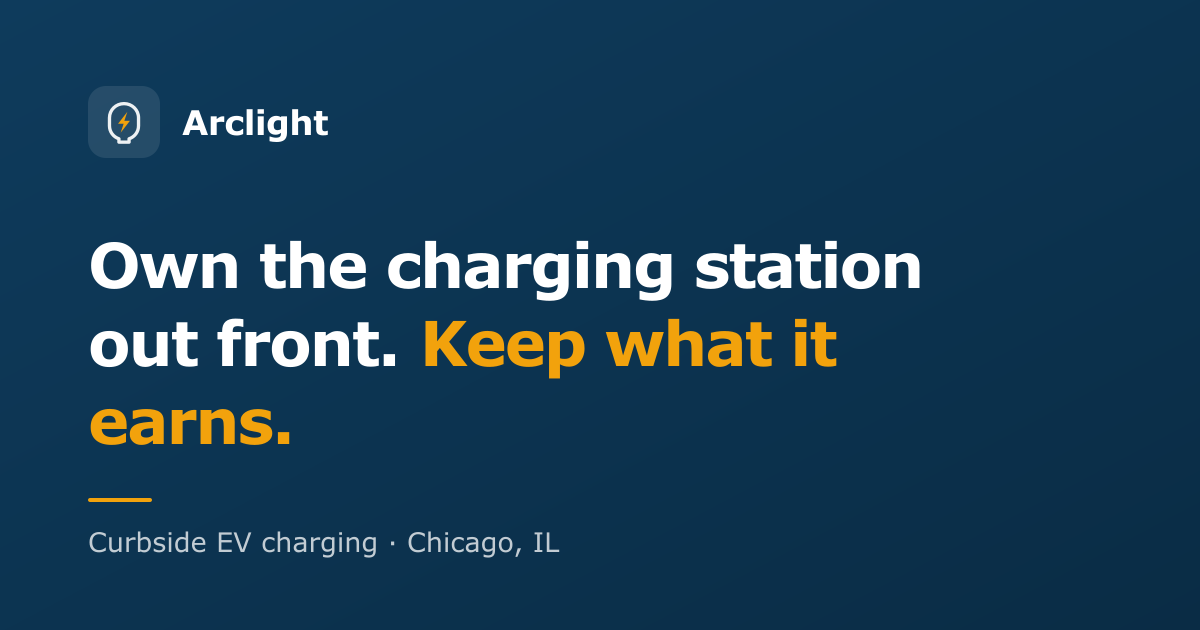
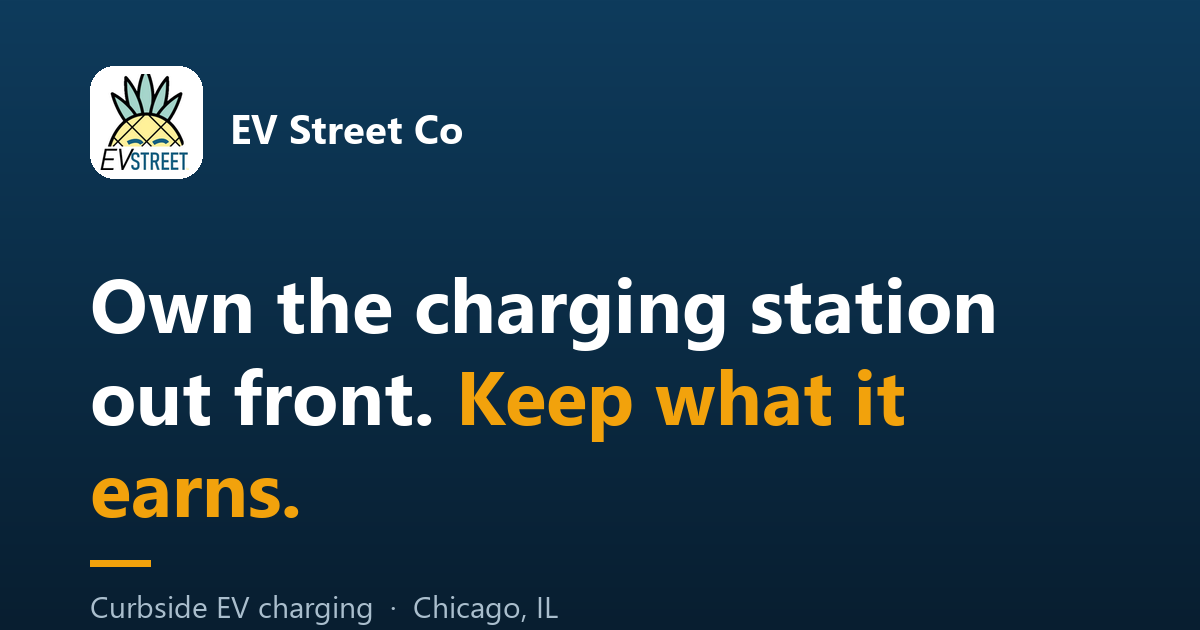
updatedtoEVstreet

Changed region(s): [[0.0617, 0.3619, 0.8325, 0.7238], [0.0, 0.7238, 0.7092, 1.0], [0.0617, 0.0905, 0.4008, 0.3016]]

diff --git a/src/brand.ts b/src/brand.ts
@@ -1,5 +1,5 @@
 /**
- * Arclight — single source of truth for every fact the site asserts.
+ * EV Street Co — single source of truth for every fact the site asserts.
  *
  * Anything still unresolved is `null` on purpose. `null` values render as a
  * visible amber TBD chip (see `src/components/Tbd.astro`) instead of silently
@@ -11,11 +11,13 @@
  */
 
 export const BRAND = {
-  name: 'Arclight',
+  name: 'EV Street Co',
+
+  /** OPEN — domain not yet registered for EV Street Co. Was arclightcurb.com under the old name. */
   domain: 'arclightcurb.com',
   city: 'Chicago, IL',
 
-  /** OPEN 9 — replace before launch. castillocontracting4@gmail.com is another company's Gmail. */
+  /** OPEN 9 — replace before launch. Needs an @ the new EV Street Co domain once it is registered. */
   email: 'hello@arclightcurb.com' as string | null,
 
   /** OPEN — $4k installs do not close on a form alone. */
@@ -45,7 +47,7 @@ export const FEE = {
 /**
  * Install pricing.
  *
- * `costTypical` is Arclight's cost. `priceLow`/`priceHigh` is the customer
+ * `costTypical` is EV Street Co's cost. `priceLow`/`priceHigh` is the customer
  * range at roughly 50% gross margin.
  *
  * OPEN 2 — the ABC book's own curbside line items (Level 2 Underground Circuit

diff --git a/src/navigation.ts b/src/navigation.ts
@@ -53,7 +53,7 @@ export const footerData = {
       : []),
   ],
   footNote: `
-    <span class="text-muted">&copy; ${new Date().getFullYear()} Arclight, Chicago IL. Electrical work performed under Illinois electrical contractor license ${
+    <span class="text-muted">&copy; ${new Date().getFullYear()} EV Street Co, Chicago IL. Electrical work performed under Illinois electrical contractor license ${
       BRAND.licenseNumber
         ? `#${BRAND.licenseNumber}`
         : `<span class="inline-flex items-center rounded-md border border-amber-500/60 bg-amber-50 px-1.5 py-0.5 text-[0.85em] font-semibold uppercase tracking-wide text-amber-800">TBD: license #</span>`

diff --git a/README.md b/README.md
@@ -1,6 +1,6 @@
-# Arclight
+# EV Street Co
 
-Marketing site for Arclight, curbside EV charging in Chicago. Property owners buy and own
+Marketing site for EV Street Co, curbside EV charging in Chicago. Property owners buy and own
 the charging station at their curb, set their own rate, and earn on every session.
 
 Built with [Astro](https://astro.build) 7 and Tailwind CSS 4, on the
@@ -56,6 +56,6 @@ the page says why.
 
 ## Custom domain
 
-To move this to arclightcurb.com: point the DNS at GitHub Pages, set `site` to the domain
+To move this to the EV Street Co domain once registered: point the DNS at GitHub Pages, set `site` to the domain
 and `base` back to `/` in `src/config.yaml`, add a `public/CNAME` file containing the domain,
 and set the custom domain in the repository's Pages settings.
